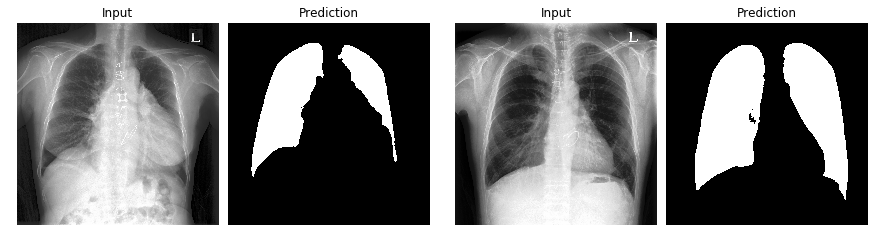
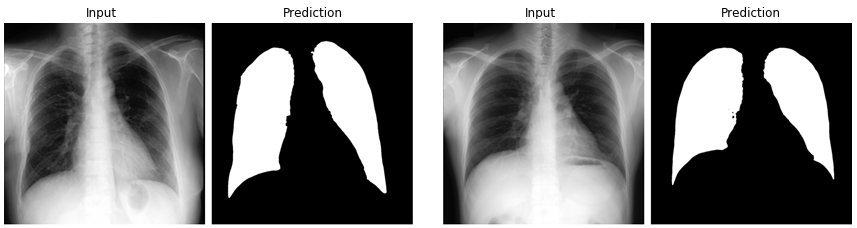
Related path solved, Update README.md  (#33)
* Lung Segmentation Create

* Create README.md

* Update README.md

* Update README.md

* Update README.md

* Update README.md

* Create imgs

* Delete imgs

* Rename medimodule/Lung/postprocessing.py to medimodule/Lung/uilts/postprocessing.py

* Rename medimodule/Lung/uilts/postprocessing.py to medimodule/Lung/utils/postprocessing.py

* Add files via upload

* Update module.py

* Update module.py

* Rename medimodule/Lung/utils/postprocessing.py to medimodule/Lung/lung_segmentation/utils/postprocessing.py

* Create sample.png

* Delete sample.png

* Delete postprocessing.py

* Create __init__.py

* Update module.py

* Update

* Single img pred, Save img Option, Update README.md

* Update sample.png

* Update sample.png

* Update README.md

diff --git a/medimodule/Lung/module.py b/medimodule/Lung/module.py
@@ -2,14 +2,14 @@ import os
 import gc
 import cv2
 import numpy as np
-from skimage import transform, io, img_as_float32
-
+from skimage import transform, io, img_as_float
 
 from tensorflow.keras import backend as K
 from tensorflow.keras.models import load_model
 
-from base import BaseModule
-from .lung_segmentation.utils.postprocessing import _postprocessing
+from medimodule.utils import Checker
+from medimodule.base import BaseModule
+from medimodule.Lung.lung_segmentation.utils.postprocessing import _postprocessing
 
 class LungSegmentation(BaseModule):
 
@@ -24,88 +24,56 @@ class LungSegmentation(BaseModule):
         self.model = load_model(weight_path)
 
 
-    def _preprocessing(self, ImgPath):
+    def _preprocessing(self, path):
         """
         Preprocess the image from the path
         
         Args:
-            (string) path : file path of image
+            (string) path : absolute path of image
         Return:
             (numpy ndarray) image
         """
         
-        '''
-        TODO : check image format
-            - png : pass
-        '''
+        if Checker.check_input_type_bool(path, 'dcm'):
+            raise ValueError(
+                '.dcm is not supported. '
+                'Please convert dcm dummies to analyze format.')
+            
+        Img = img_as_float(io.imread(path))
+        Img = transform.resize(Img, (1024,1024))
+        Img = np.expand_dims(Img, -1)
+
+        FileName = os.path.split(path)[-1]
         
-        Imgs = []
-        FileNames = []
+        Img_mean = Img.mean()
+        Img_std  = np.sqrt(((Img**2).mean()) - (Img.mean())**2)
 
-        Imgs_mean = 0.
-        Imgs_meansq = 0.
+        Img -= Img_mean
+        Img /= Img_std
 
-        for i, filename in enumerate(os.listdir(ImgPath)):
-
-            if (os.path.isdir(os.path.join(ImgPath, filename))):
-                continue
-
-            img = img_as_float(io.imread(os.path.join(ImgPath, filename)))
-            img = transform.resize(img, (1024,1024))
-            img = np.expand_dims(img, -1)
-            Imgs.append(img)
-            FileNames.append(filename)
-
-            Imgs_mean += img.mean()
-            Imgs_meansq += (img**2).mean()
-
-        Imgs = np.array(Imgs)
-        FileNames = np.array(FileNames)
-
-        Imgs_mean /= len(FileNames)
-        Imgs_meansq /= len(FileNames)
-        Imgs_std  = np.sqrt(Imgs_meansq - Imgs_mean**2)
-
-        Imgs -= Imgs_mean
-        Imgs /= Imgs_std
-
-        print("Preprocessing done on {} files.....".format(len(FileNames)))
-        return Imgs, FileNames
+        print("Preprocessing done on {} files...".format(str(FileName)))
+        return Img, FileName
     
 
     
-    def predict(self, ImgPath):
+    def predict(self, path):
         """
         Lung segmentation
         
         Args:
-            (string) path : file path of image
+            (string) path : image path
             
         Return:
-            Lung mask saved in Mask_DIR folder 
+            (numpy ndarray) Lung mask with shape (width, height)
         """
-        Mask_DIR = ImgPath + "/LungMask"
-        
-        testData, filenames = self._preprocessing(ImgPath)
+        testData, filenames = self._preprocessing(path)
         testData = np.asarray(testData)
                 
         if (len(testData.shape) == 3):
-            testData = np.expand_dims(testData, -1)
-        if (not os.path.isdir(Mask_DIR)):
-            os.makedirs(Mask_DIR)
+            testData = np.expand_dims(testData, 0)
             
         preds = self.model.predict(testData, batch_size=1)
         preds = preds > 0.5
-        processed = _postprocessing(preds)
-
-        for i in range(len(processed)):
-            mask = processed[i, :, :, 0]
-            mask = mask * 255
-            cv2.imwrite(Mask_DIR + "/" + filenames[i], mask)
-
-        del self.model
-        gc.collect()
-        K.clear_session()
-        print(" Test Done ! ")
-        
-        return None
+        mask = _postprocessing(preds)
+        print("Test Done !")
+        return mask

diff --git a/medimodule/Lung/test.py b/medimodule/Lung/test.py
@@ -13,6 +13,7 @@ def parse_arguments(argv):
     parser.add_argument('--img', type=str, default=None)
     parser.add_argument('--weights', type=str, default=None)
     parser.add_argument('--save_path', type=str, default=None)
+    parser.add_argument('--gpus', type=str, default='-1')
     return parser.parse_args()
 
 
@@ -20,19 +21,23 @@ def main(args):
     ### For Preprocessing
     dcm_path = os.path.abspath(args.img)
 
-    
-    ### Liver Segmentation
-    # TODO : edit below codes according to your codes
-    if args.mode == 'age_regression':
-        from medimodule.Chest import AgeRegressor
-        age_regressor = AgeRegressor()
-        age_regressor.init(args.weights)
-        out = age_regressor.predict(dcm_path)
-        print(out)
+    ### Lung Segmentation
+    if args.mode == 'lung_segmentation':
+        from medimodule.Lung import LungSegmentation
+        Lung_segmentation = LungSegmentation()
+        Lung_segmentation.init(args.weights)
+        out = Lung_segmentation.predict(dcm_path)
+        if args.save_path is not None:
+            if (not os.path.isdir(args.save_path)):
+                os.makedirs(args.save_path)
+            mask = out[0, :, :, 0]
+            mask = mask * 255
+            cv2.imwrite(args.save_path + "/Mask_" + os.path.split(dcm_path)[-1], mask)
 
 
 
 if __name__ == '__main__':
-   argv = parse_arguments(sys.argv[1:])
-   main(argv)
+    sys.path.append('../../')
+    argv = parse_arguments(sys.argv[1:])
+    main(argv)
     

diff --git a/medimodule/Lung/README.md b/medimodule/Lung/README.md
@@ -1,0 +1,32 @@
+# Lung
+This **Lung** module consists of the following functions.
+- Lung Segmentation
+
+### Results
+| Modality | Module | Results |
+| --- | --- | --- |
+| CXR | Lung Segmentation | Dice 0.97 |
+
+
+## Lung Segmentation
+The segmentation model trained by `JSRT` dataset. 
+
+### Inference
+
+```python
+from medimodule.Lung import LungSegmentation
+
+module = LungSegmentation()
+
+# set the model with weight
+module.init('/path/for/lung/Lung_segmentation.hdf5')
+
+# get a result
+result = module.predict('/path/of/lung.png')
+```
+![sample](imgs/sample.png)
+
+### Weights
+
+[weights link](https://drive.google.com/file/d/1UJ5FEZbBtn85b5hY04Ipb8eZvGkn-h8D/view?usp=sharing)
+
